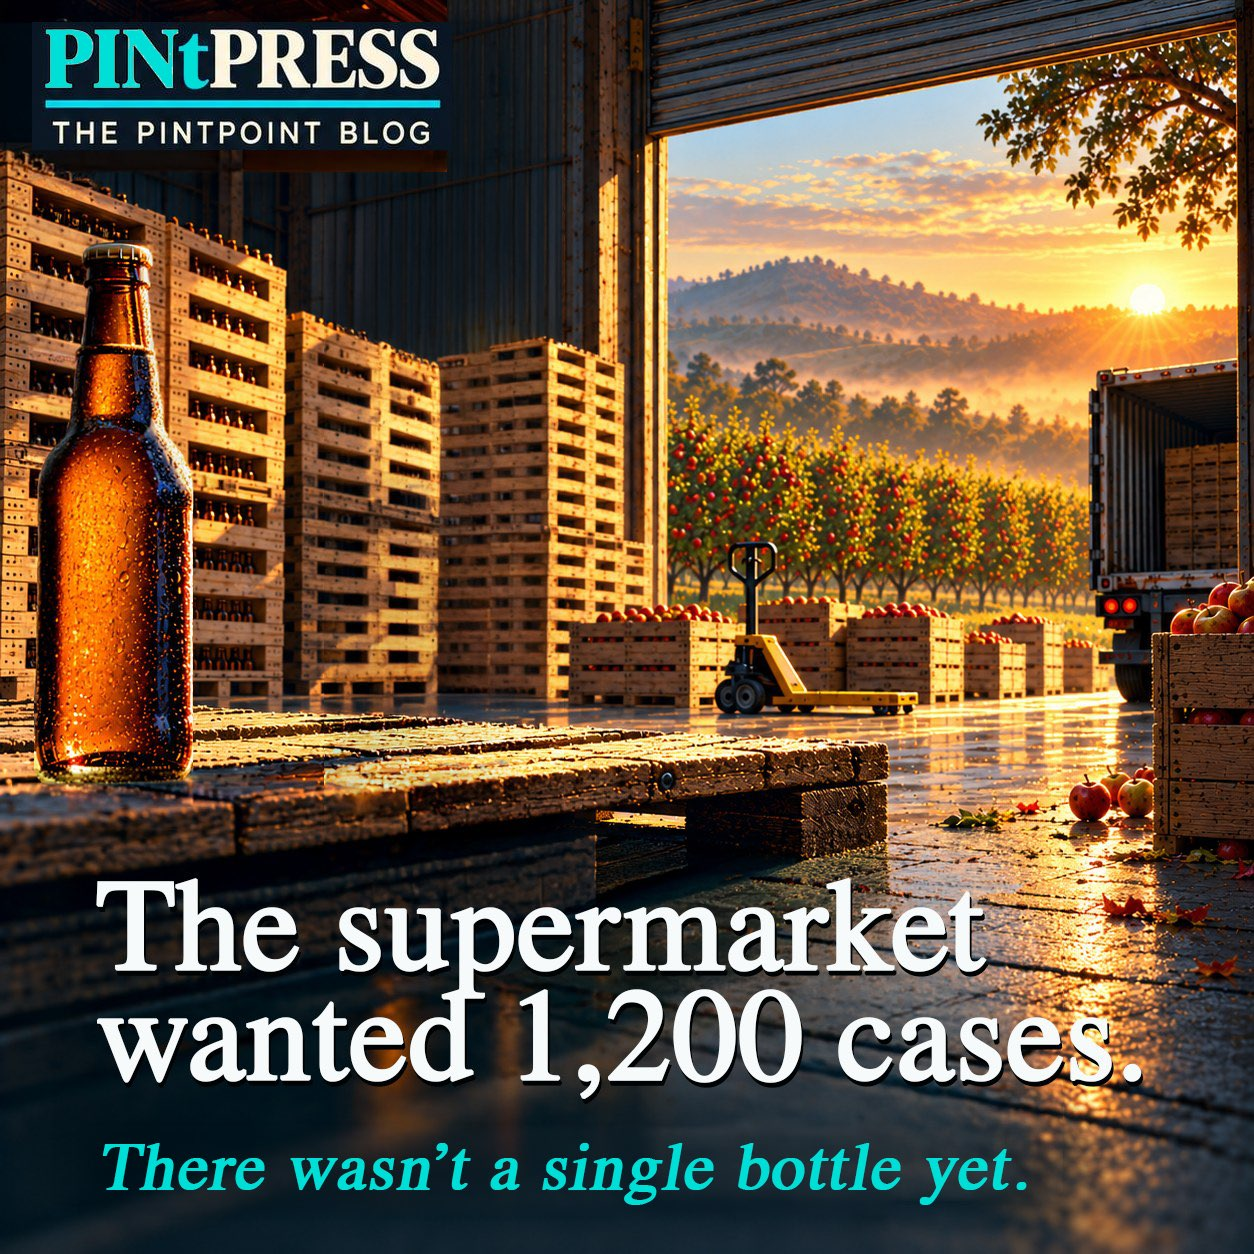
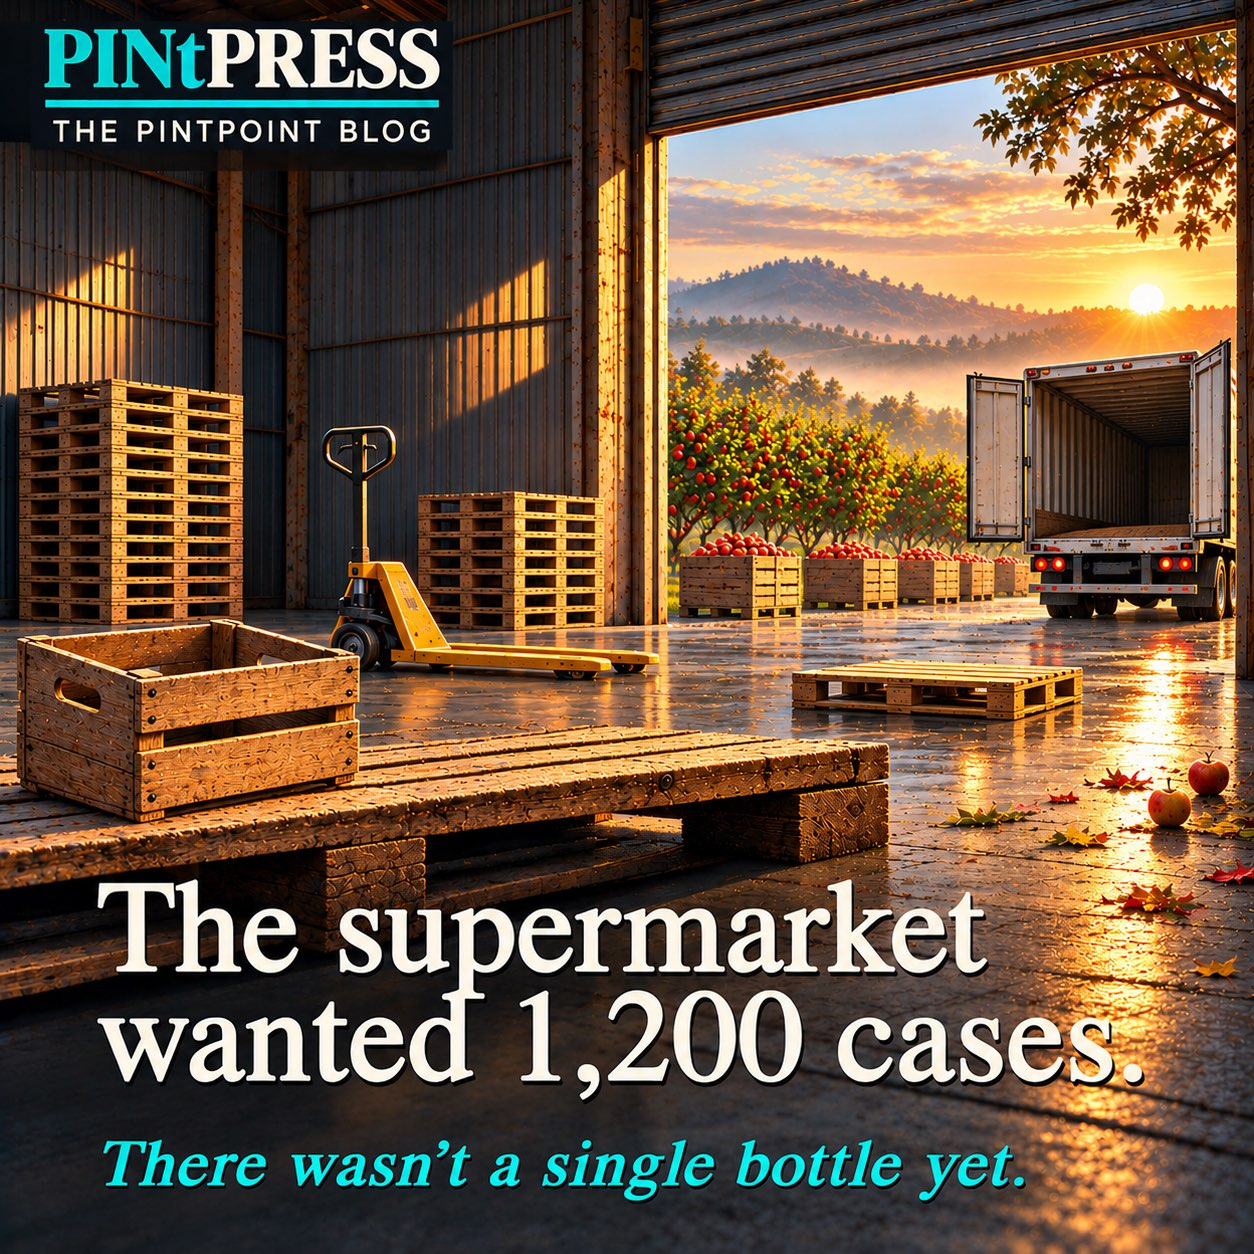
ACE card: empty the warehouse
Paul: the old picture argued with its own line. It said there wasn't a
single bottle yet over pallets stacked with crates of bottles and a
full bottle in front.

The new one is the gap between order and product: bare pallets, an
idle pallet truck, one empty crate where the hero bottle stood, and
through the open door a lorry backed up with its trailer doors open
and nothing in it. The apple bins and the orchard carry the cider,
which the old brown longneck and crown cap did not. No bottles
anywhere in frame.

Both image alts rewritten to describe the scene that is there.

diff --git a/blog/ace-the-importer-who-became-a-maker.html b/blog/ace-the-importer-who-became-a-maker.html
@@ -30,12 +30,12 @@
   <meta property="og:image" content="https://pintpoint.co.uk/blog/images/ace-the-importer-who-became-a-maker.jpg" />
   <meta property="og:image:width" content="1254" />
   <meta property="og:image:height" content="1254" />
-  <meta property="og:image:alt" content="PINtPRESS card: &ldquo;The supermarket wanted 1,200 cases. There wasn&rsquo;t a single bottle yet.&rdquo; over a Californian loading dock at sunrise, an unlabelled amber bottle on a pallet, stacked crates and a pallet truck, with an apple orchard and a lorry beyond." />
+  <meta property="og:image:alt" content="PINtPRESS card: &ldquo;The supermarket wanted 1,200 cases. There wasn&rsquo;t a single bottle yet.&rdquo; over an empty Californian packing warehouse at sunrise. Bare pallets, an idle pallet truck and one empty wooden crate inside; through the open roller door, a lorry backed up with its trailer doors open, bins of red apples waiting in the yard and the orchard beyond." />
   <meta property="og:description" content="Jeffrey House had spent ten years selling other people&rsquo;s cider in America. ACE was his own, and he had sold it before he had made it." />
   <meta property="fb:app_id" content="1892965231402903" />
   <meta name="twitter:card" content="summary_large_image" />
   <meta name="twitter:image" content="https://pintpoint.co.uk/blog/images/ace-the-importer-who-became-a-maker.jpg" />
-  <meta name="twitter:image:alt" content="PINtPRESS card: &ldquo;The supermarket wanted 1,200 cases. There wasn&rsquo;t a single bottle yet.&rdquo; over a Californian loading dock at sunrise, an unlabelled amber bottle on a pallet, stacked crates and a pallet truck, with an apple orchard and a lorry beyond." />
+  <meta name="twitter:image:alt" content="PINtPRESS card: &ldquo;The supermarket wanted 1,200 cases. There wasn&rsquo;t a single bottle yet.&rdquo; over an empty Californian packing warehouse at sunrise. Bare pallets, an idle pallet truck and one empty wooden crate inside; through the open roller door, a lorry backed up with its trailer doors open, bins of red apples waiting in the yard and the orchard beyond." />
   <link rel="preconnect" href="https://fonts.googleapis.com" />
   <link rel="preconnect" href="https://fonts.gstatic.com" crossorigin />
   <link href="https://fonts.googleapis.com/css2?family=Inter:wght@400;500;600;700;800&family=Source+Serif+4:ital,opsz,wght@0,8..60,400;0,8..60,600;1,8..60,400;1,8..60,600&display=swap" rel="stylesheet" />
